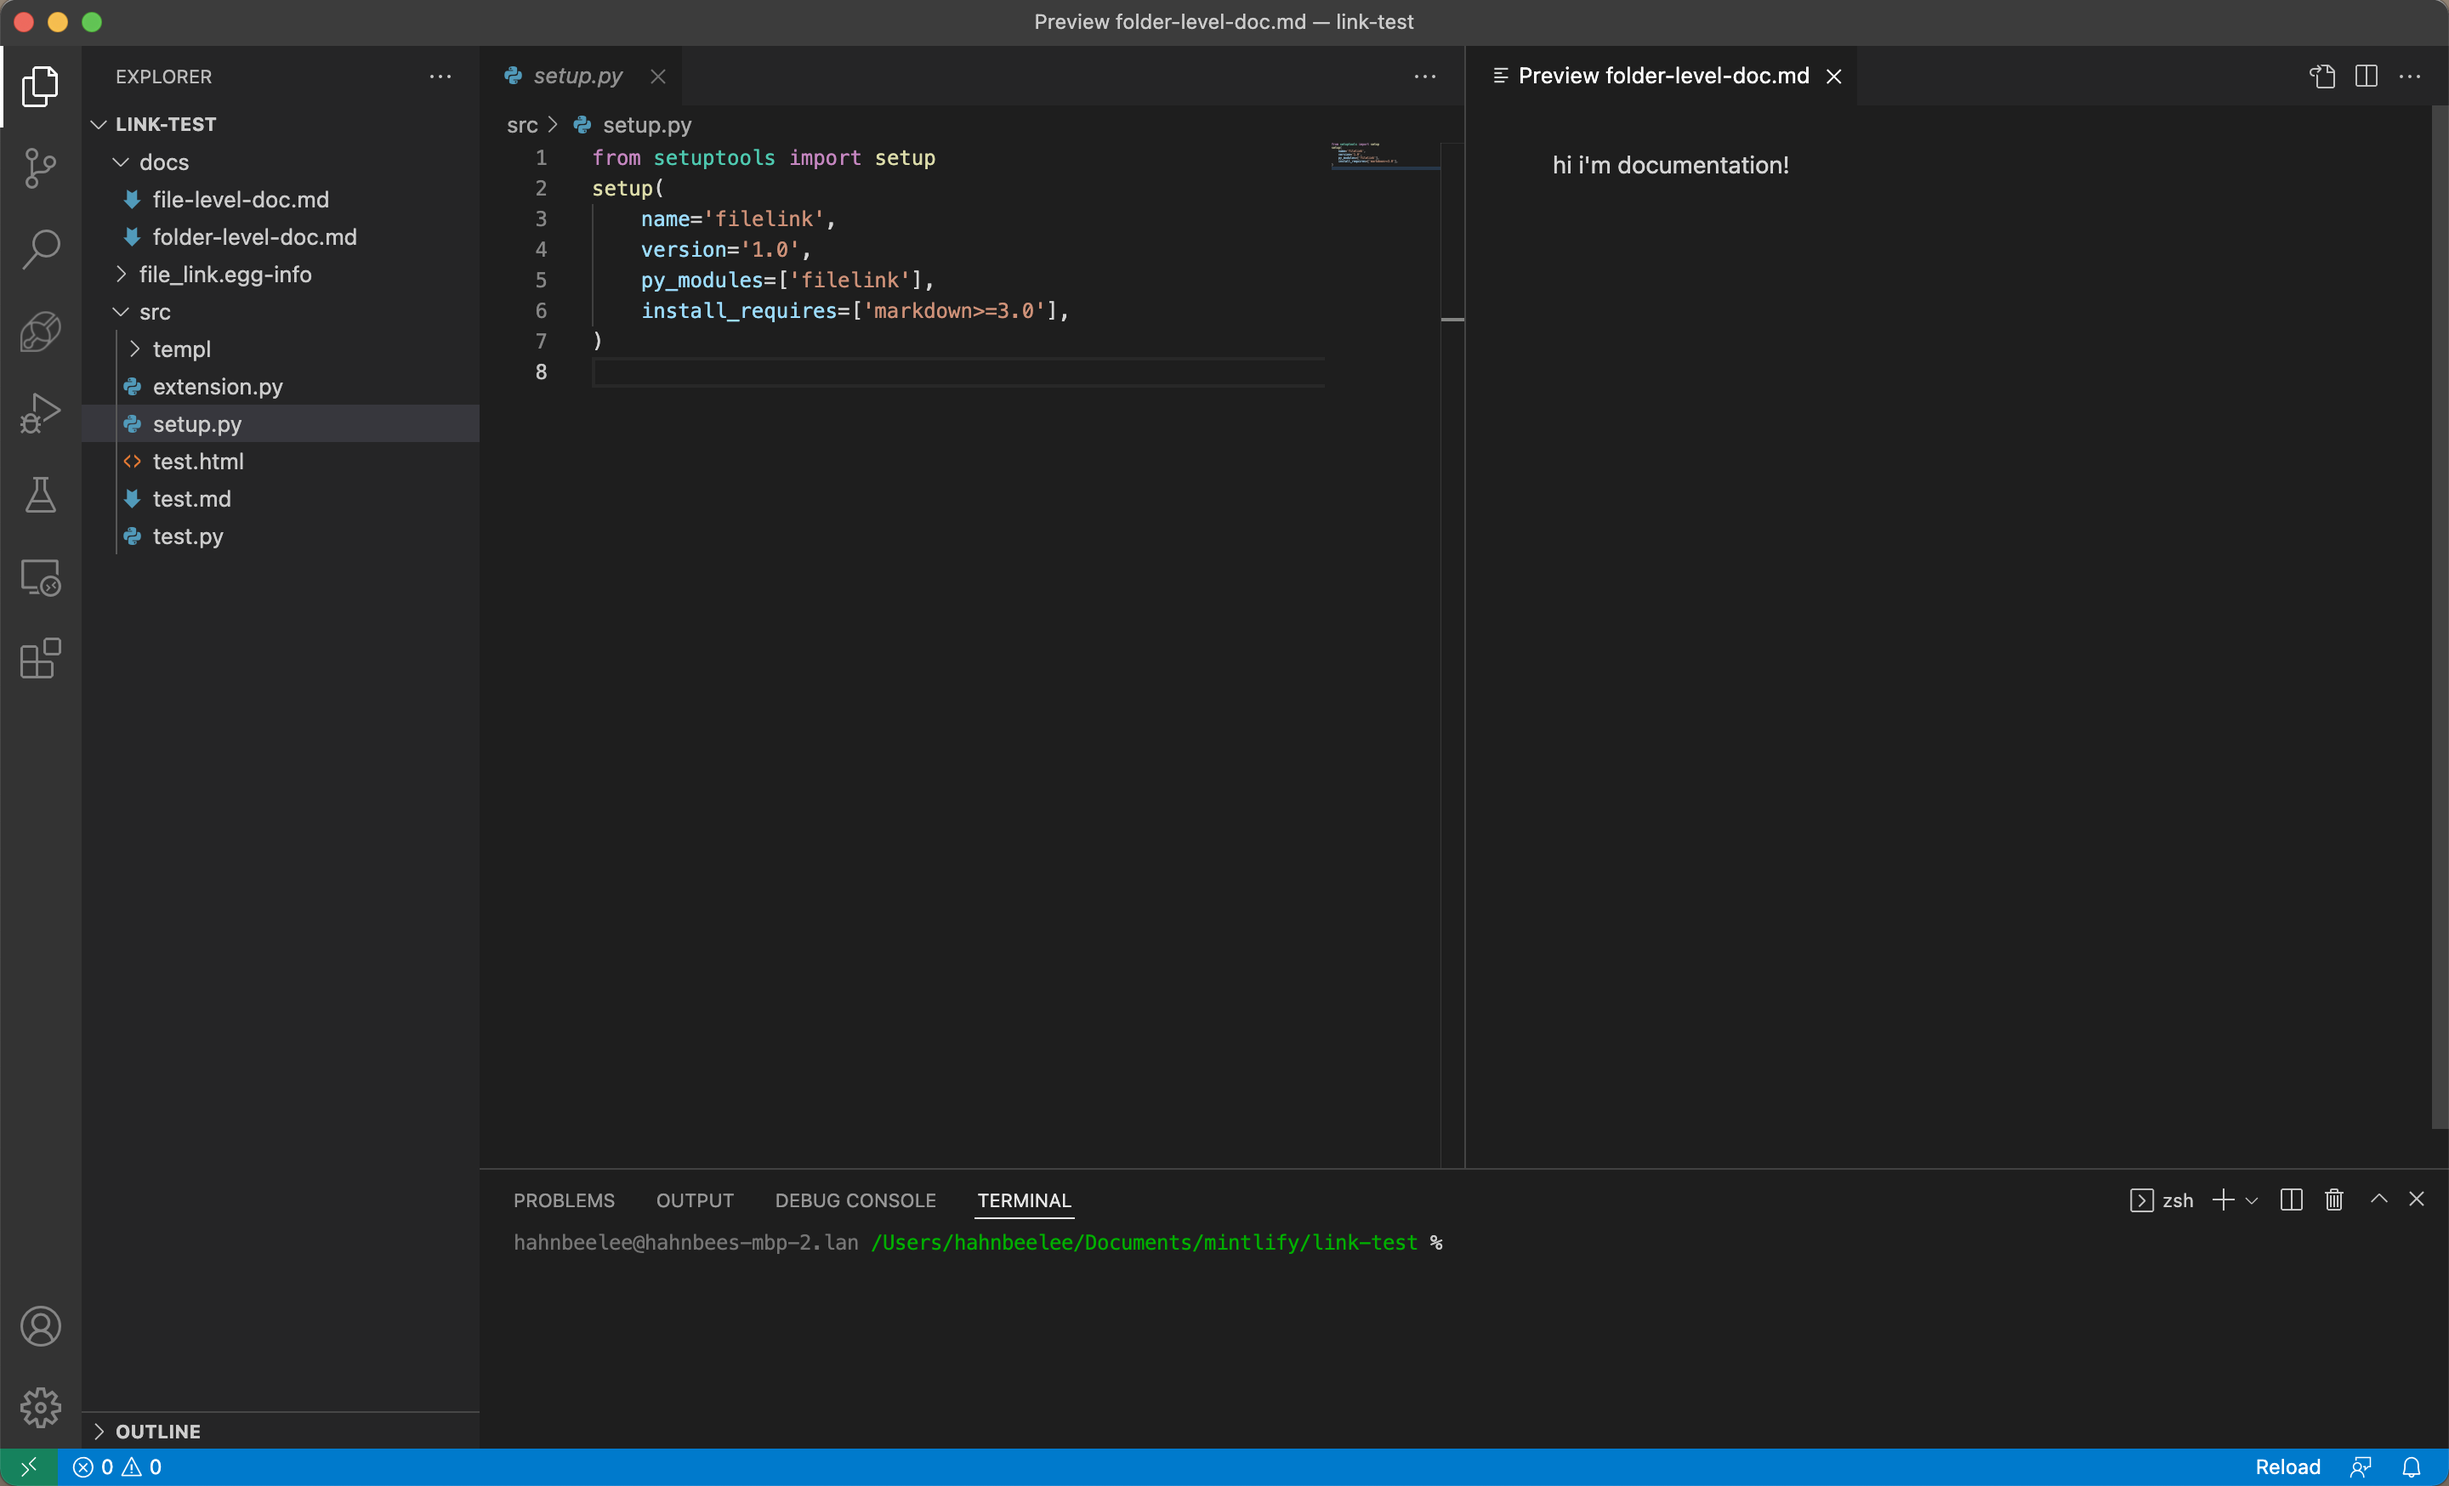
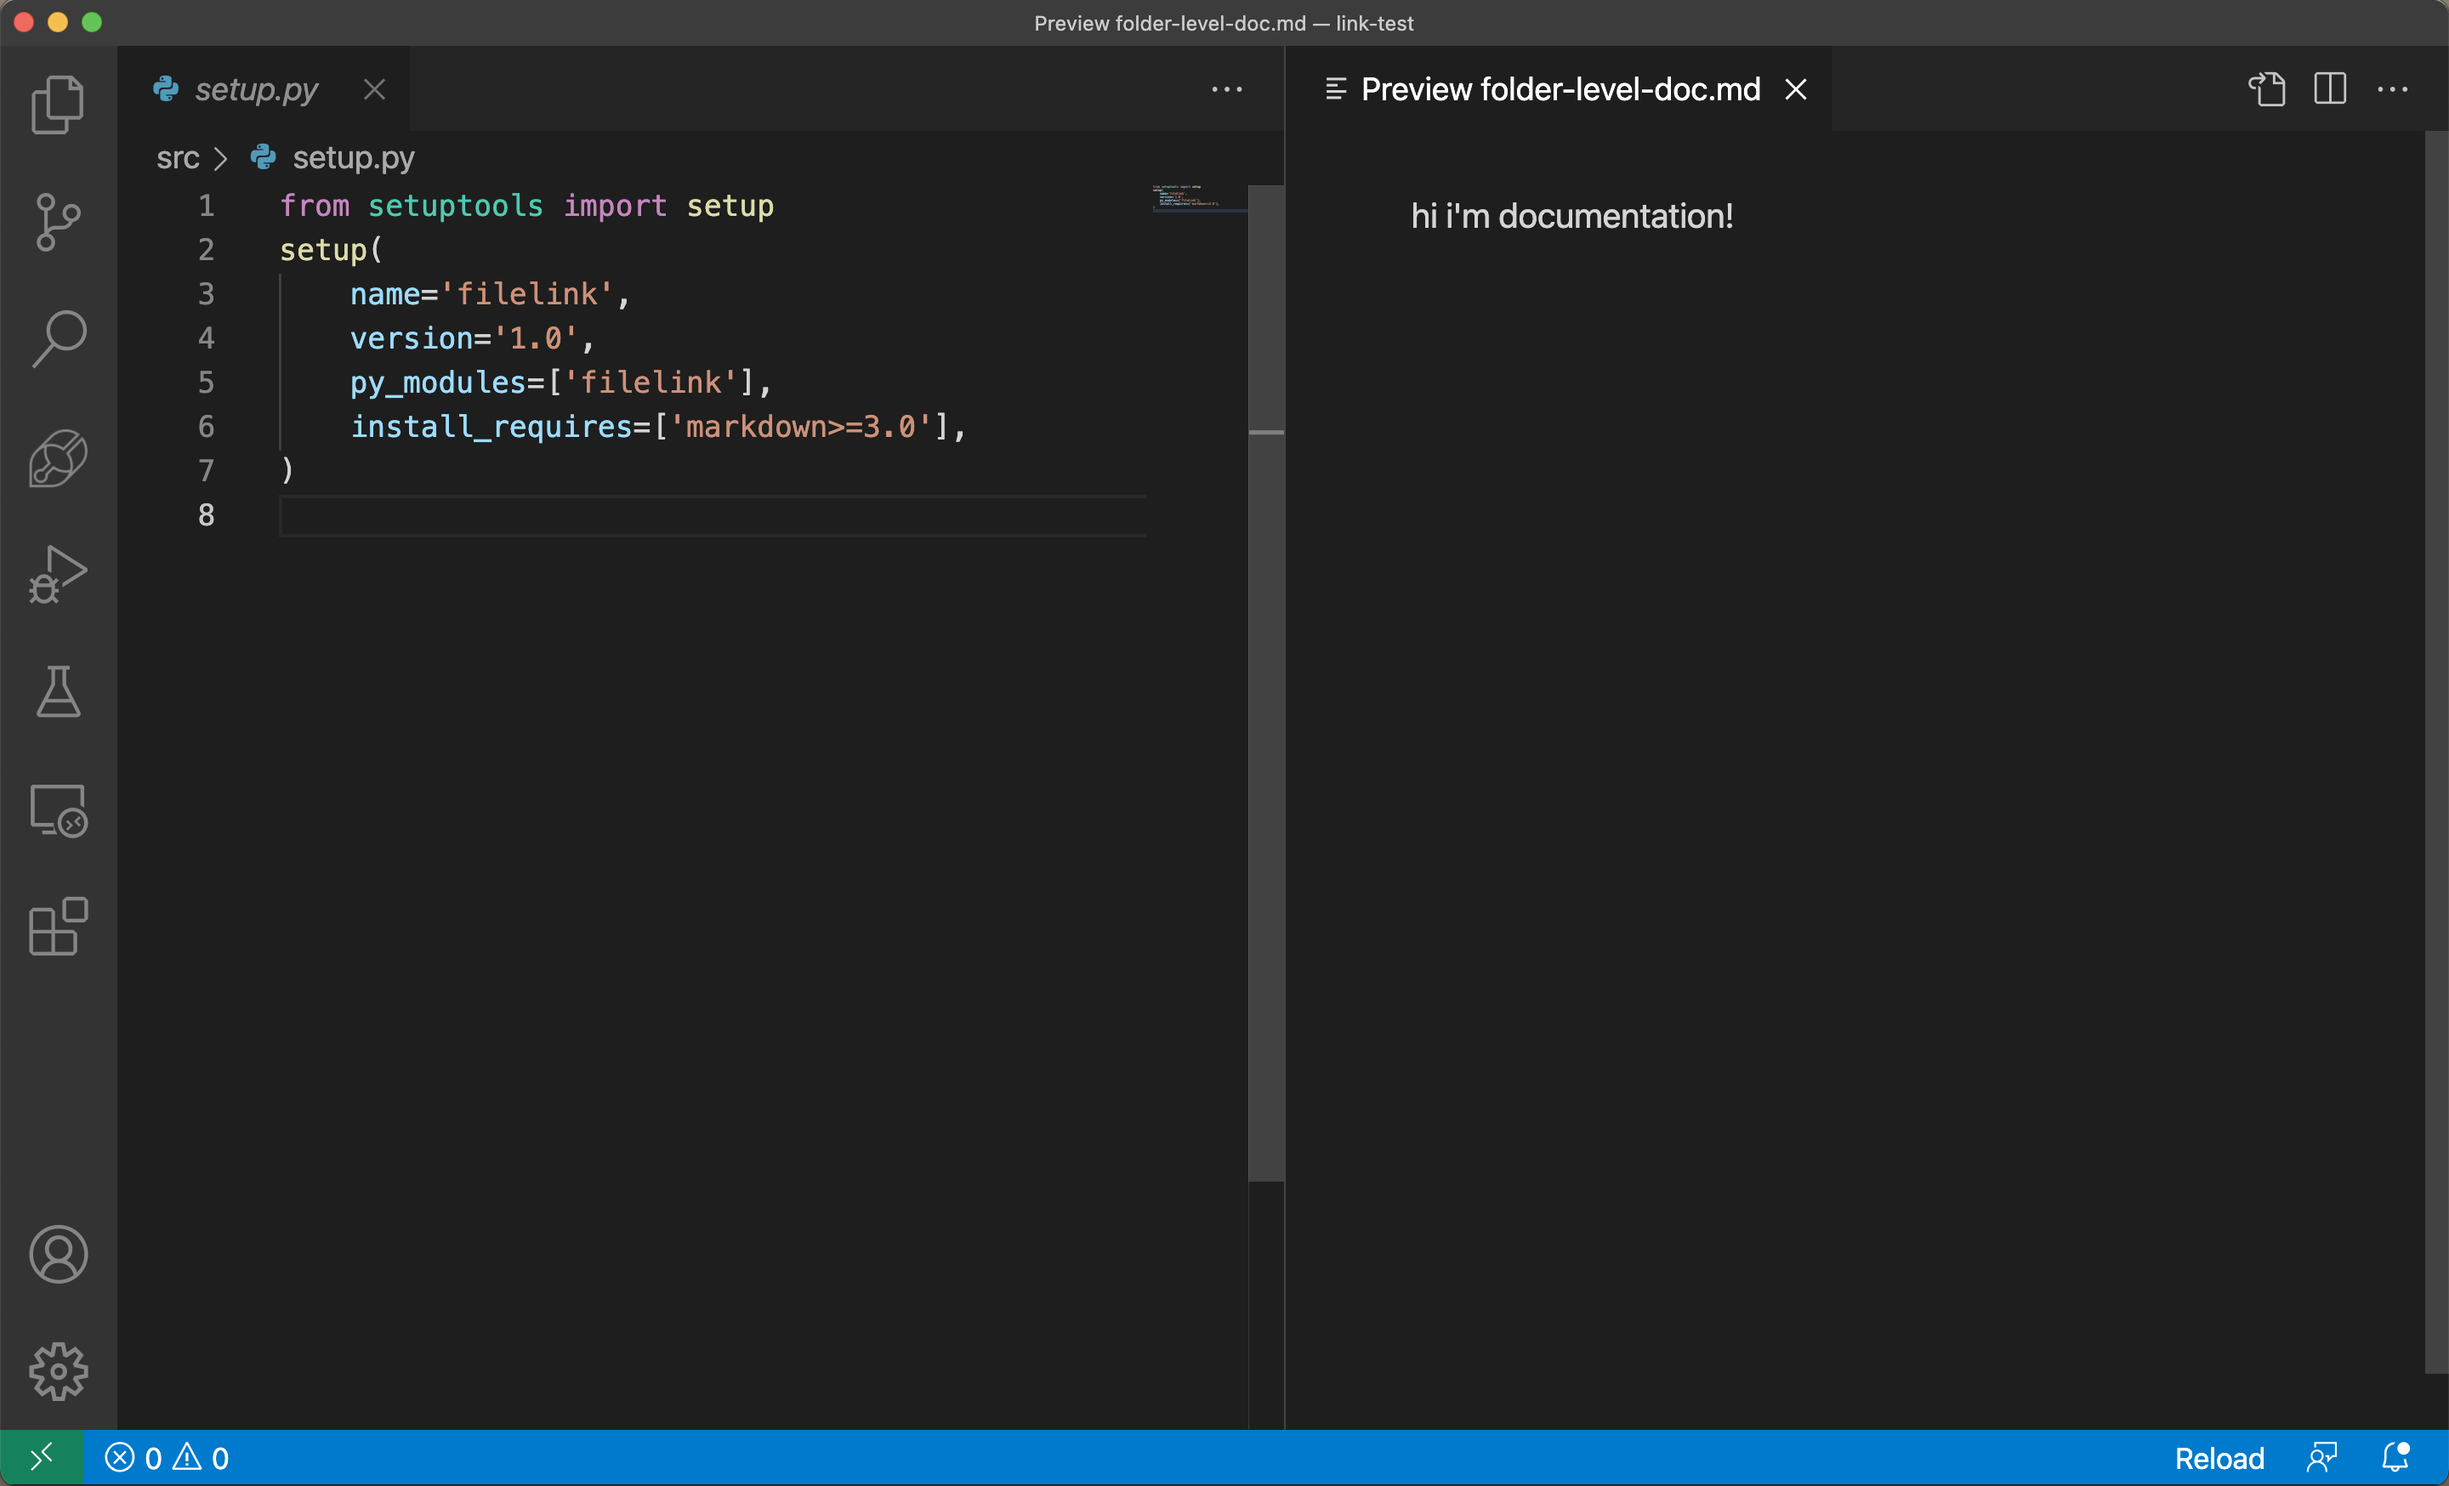
change asset size again

diff --git a/README.md b/README.md
@@ -13,7 +13,7 @@ Providee context to your code without cluttering it. Use Link Docs to link your 
 
 5. Open up a document preview by pressing Cmd/Ctrl+8
 
-<img src="/assets/cmd+8.png" width="520px" />
+<img src="/assets/cmd+8.png" width="600px" />
 
 ## 🔗 Different Ways to Link
 
